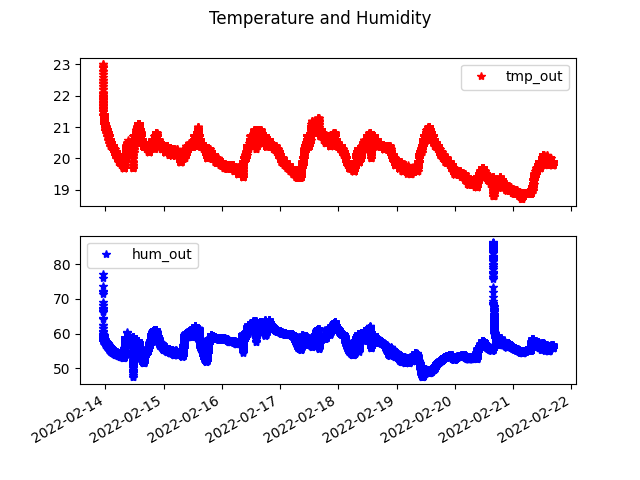
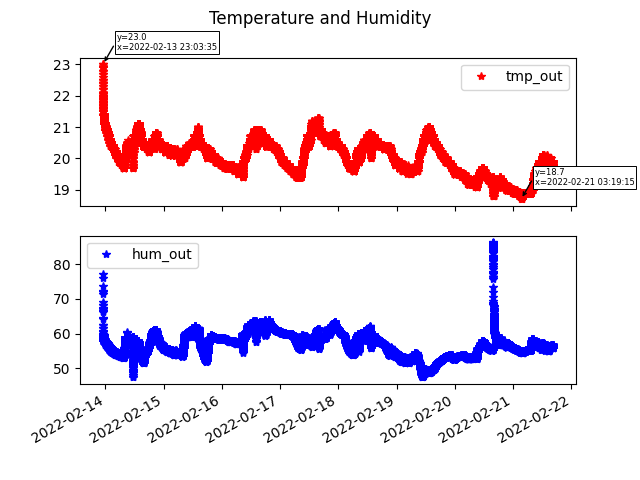
v0.2

Changed region(s): [[0.8125, 0.3438, 1.0, 0.4062], [0.1562, 0.0625, 0.3438, 0.125]]

diff --git a/send_mail.py b/send_mail.py
@@ -2,6 +2,7 @@
 
 # Changelog:
 # v0.1          worked for one and two DHT Sensor Data (see files in data)
+# v0.2          added min, max Option
 
 # TODO:
 #make a label with min, max values in each plot
@@ -17,6 +18,7 @@ from email.utils import COMMASPACE, formatdate
 from email import encoders
 
 # required for plotting and file handling
+import operator
 import os
 import fileinput
 import re
@@ -29,9 +31,10 @@ password_send_mail = ''          # TODO edit PW here!
 email_add          = ''     # check if sending works: https://myaccount.google.com/lesssecureapps?pli=1
 send_mail_to       = ''
 
-#for local tests: /home/markus/Documents/PIZero/data/oneDHTSensor
+#for local tests: /home/markus/Documents/PIZero/data/twoDHTSensor
 #on the pi: /home/pi
-logging_files_dir  = "/home/markus/Documents/PIZero/data/oneDHTSensor"
+logging_files_dir  = "/home/pi"
+include_min_max    = True # include min, max points in the plots
 
 def send_mail(send_from, send_to, subject, message, files=[],
               server="smtp.gmail.com", port=587, username=email_add, password=password_send_mail,
@@ -115,6 +118,23 @@ def merge_log_files(files):
             result["temperature_inside"].append(float(p[4]))
     return result
 
+def annot_max_min(x,y, ax=None):
+    xmax = x[y.index(max(y))]
+    ymax = max(y)
+    xmin = x[y.index(min(y))]
+    ymin = min(y)
+    if ymax<100 and ymin>-100:
+        textmax= "y={:.1f}".format(ymax)+"\nx="+str(xmax)
+        textmin= "y={:.1f}".format(ymin)+"\nx="+str(xmin)
+        if not ax:
+            ax=plt.gca()
+        bbox_props = dict(boxstyle="square,pad=0.2", fc="w", ec="k", lw=0.7)
+        arrowprops=dict(arrowstyle="->",connectionstyle="angle,angleA=0,angleB=60")
+        kw = dict(xycoords='data', textcoords="offset points",
+                  arrowprops=arrowprops, bbox=bbox_props)
+        ax.annotate(textmax, xy=(xmax, ymax), xytext=(10, 10), fontsize=6, **kw)
+        ax.annotate(textmin, xy=(xmin, ymin), xytext=(10, 10), fontsize=6, **kw)
+
 def plot_file(x, y1, y2, last_values=0):
     # delete empty lists:
     y1 = [t for t in y1 if t != []]
@@ -146,10 +166,14 @@ def plot_file(x, y1, y2, last_values=0):
         colors_temp=['*b','*c','*b']
         for c,i in enumerate(yy1):
             axs[0].plot(x, i, colors_hum[c], label="tmp_"+labels[c])
+            if include_min_max:
+                annot_max_min(x, i, axs[0])
             if abs(max(i, key=abs))>100:
                 limit_temp = True
         for c,j in enumerate(yy2):
             axs[1].plot(x, j, colors_temp[c], label="hum_"+labels[c])
+            if include_min_max:
+                annot_max_min(x, j, axs[1])
             if abs(max(j, key=abs))>100:
                 limit_hum = True
         if limit_temp:
@@ -177,8 +201,8 @@ def plot_files():
         print("I found "+str(len(log_files))+" logging files.")
     result = merge_log_files(log_files)
     # one sorted line looks like: 2022-02-21 16:39:52 	31107	19.9	56.4
-    if not len(result["dates"])>1000:
-        print("Sry nothing is plotted your logging just contains: "+str(len(sorted_lines))+" lines.")
+    if not len(result["dates"])>10:
+        print("Sry nothing is plotted your logging just contains: "+str(len(log_files))+" lines.")
         return []
 
     # plot the images here:

diff --git a/readme.md b/readme.md
@@ -17,6 +17,7 @@
 ## Usefull commands
 ```bash
 #Login:
+ssh pi@pitwo.local # for second raspberry pi!
 ssh pi@raspberrypi.local PW=raspberry
 # Copy logging files from REMOTE to your PC
 sudo scp -r pi@raspberrypi:*_logging.txt ~
@@ -29,6 +30,8 @@ sudo systemctl status send_mail.service
 ```
 
 ## TODO
+* use this lib: https://github.com/adafruit/Adafruit_CircuitPython_DHT#basics
+* cause with my current lib no negative Value work!!!
 * LiCR!
 * picle stuff
 * optinal: webstation: https://medium.com/initial-state/build-an-inexpensive-network-of-web-connected-temperature-sensors-using-pi-zeros-730a40f1fb60
